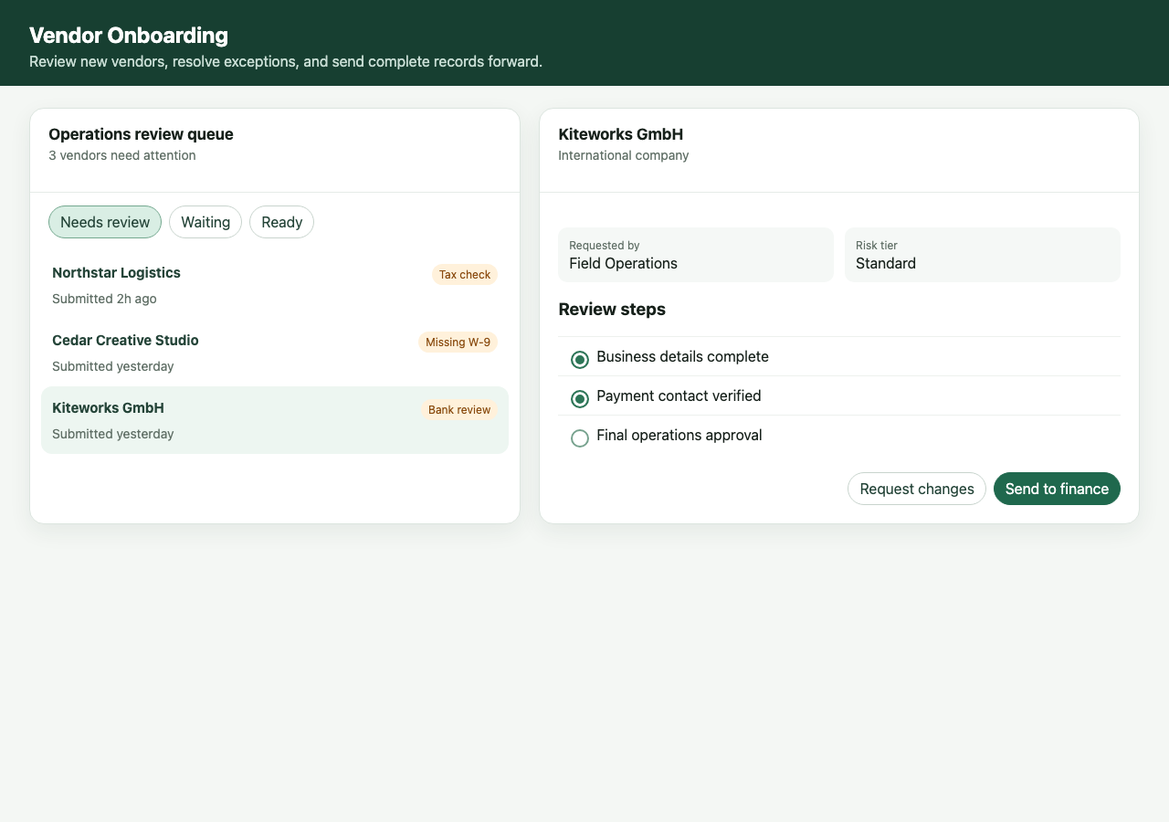
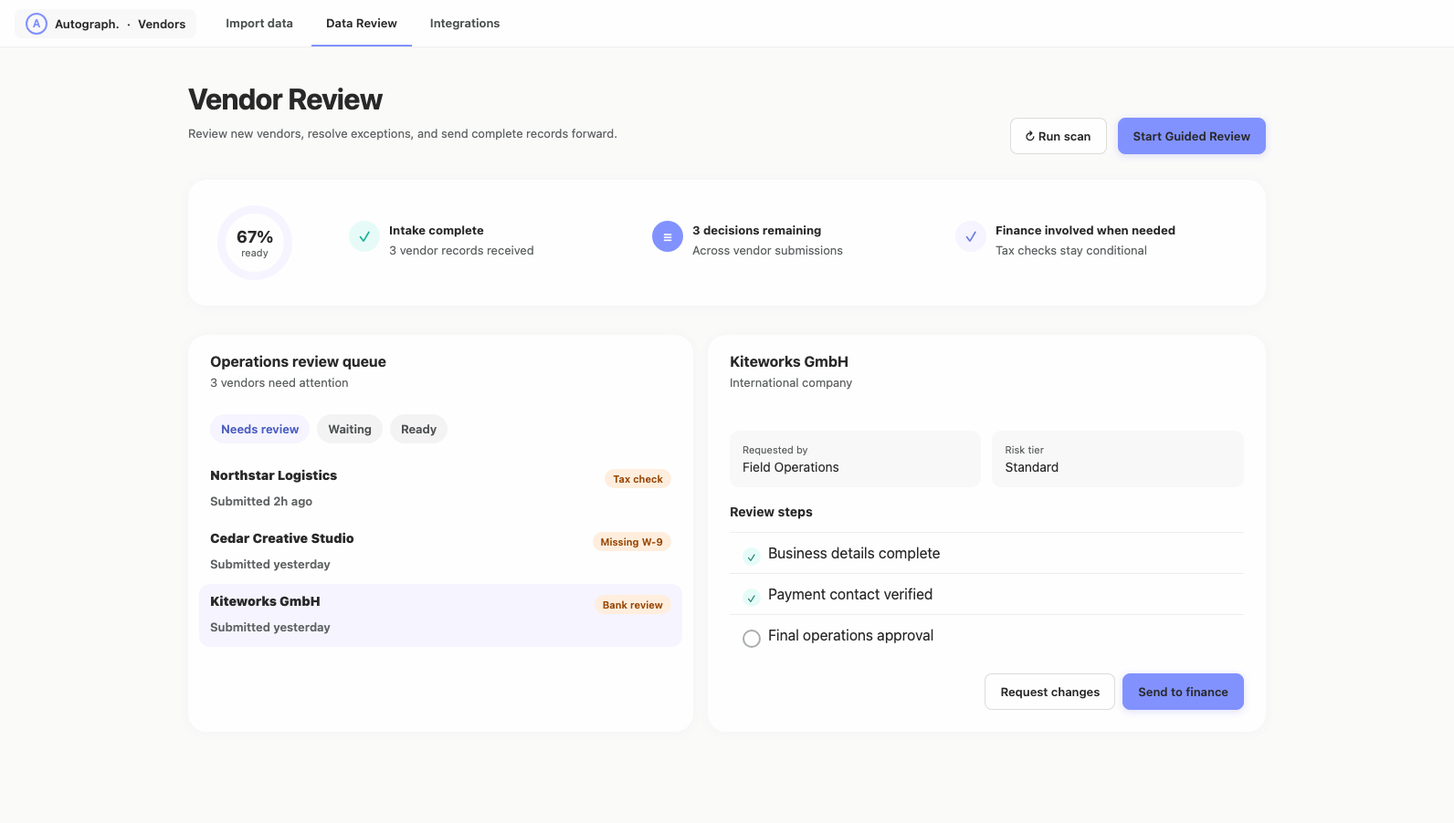
fix: align UI preview evals with Arrusted

diff --git a/lib/sandbox/hosted-managed-seeds.generated.ts b/lib/sandbox/hosted-managed-seeds.generated.ts
@@ -33,7 +33,7 @@ export const HOSTED_MANAGED_SKILL_CONTENTS = [
   {
     path: "design-app/SKILL.md",
     content:
-      "---\nname: design-app\ndescription: Turn a product idea into a rapidly iterated self-contained HTML prototype and a user-approved, build-ready AppSpec for a supported Autograph repository. Use for product discovery, app design, prototyping, or specification when requirements, integrations, or data objects are not yet fully known. Generic app-creation requests belong to $create-app.\n---\n\n# Design App\n\nUse HTML as the discovery surface and a structured AppSpec as the production\nhandoff. Do not require a complete data model before showing the user something\nuseful. Do not let provisional prototype assumptions silently become production\ndecisions.\n\nPrototype files and previews require a discovered builder-owned artifact tool.\nIf it is unavailable, stop after product discovery and report that prototype\ndelivery is not implemented. Never substitute the generic file writer or claim\nthat an HTML artifact was created or shown.\n\n## Communication rule\n\nUse product language in every public message. Never name internal\nspecifications, acceptance mechanics, artifacts, receipts, digests, workspace\nor source machinery, validation gates, protocol operations, or opaque\nvalidator/blocker text. Translate only the visible product meaning or effect.\n\n## Load references\n\nReferences are bundled files, not skills. Never pass a reference path to\n`load_skill`; that tool accepts only the top-level `design-app` name. After this\nskill is loaded, use `read_skill_reference` with the exact pairs below:\n\n- `design-app` and `references/questions.md` before asking discovery questions;\n- `design-app` and `references/app-spec.md` when creating or updating the\n  decision ledger, checking build readiness, or handing off to implementation;\n  and\n- `design-app` and `references/target-repository-routing.md` before grounding\n  the prototype or planning the production app.\n\n## Artifacts\n\nResolve one concise user-facing app name and one lowercase kebab-case app id,\nthen maintain these together under `prototype/<app-id>/`. Preserve explicitly\nsupplied valid values. When either is omitted, infer it from the product brief,\nbriefly tell the user what was inferred, and continue without confirmation.\nDerive an inferred id deterministically from the chosen name by lowercasing it,\nreplacing each run of non-alphanumeric characters with one hyphen, and trimming\nhyphens. The prototype slug and future app id must be identical. Inspect the\nprepared source for a real directory, package, route, or prototype collision;\nask only for a collision, unsupported identifier, or material ambiguity. The\nselected adapter's builder-owned identity operation remains authoritative for\nlater target planning. Never construct or guess a repository script path.\n\n- `index.html` plus additional self-contained HTML pages when interfaces require\n  them;\n- `app-spec.md`, using the contract in `references/app-spec.md`; and\n- `decisions.md`, recording user-stated facts, evidence, assumptions,\n  confirmations, defaults, unresolved questions, and explicit deferrals.\n\nThe HTML is not production code, schema authority, or persisted-data authority.\nThe AppSpec becomes build-ready when stated product decisions and safe revisable\ndefaults satisfy the complete contract; formal recording is internal and silent.\n\n## Phase 0: Minimum HTML gate\n\nRequire only a clear job to be done. Infer the initial interface pattern from\nthe product brief and explicit preferences. When no preference is stated,\nchoose a reasonable, revisable pattern, explain the choice briefly in user\nlanguage, and proceed quickly to HTML. Do not ask the user to choose among a\nqueue, form, dashboard, table, or detail view when the brief supports a good\ndefault. Ask one concise blocking question only when the job itself is missing\nor materially different interface choices would produce meaningfully different\nproducts. Do not block HTML on personas, integrations, data objects, fields,\npermissions, or delivery details; infer plausible provisional choices, label\nthem, and make them easy to revise.\n\n## Phase 1: Focused exploration\n\nResearch enough to make the prototype credible:\n\n1. learn domain terminology, current tools, best practice, and common failures;\n2. identify day-to-day users and consumers of the output;\n3. refine the decisions, cadence, first-use behavior, and failure states inside\n   the stated JTBD;\n4. propose likely data sources and reconciliation issues as assumptions; and\n5. identify concrete proactive and on-demand agent value.\n\nDo not turn this into a mandatory pre-prototype interview. Ask only questions\nthat would materially change the first HTML into a different product. For\nvaluable but nonblocking questions, state the assumption and continue.\n\n## Phase 2: Target-repository grounding\n\nRead only the repository sources routed by\n`references/target-repository-routing.md` from the prepared target workspace.\nInspect current exports, Storybook stories, contracts, tokens, and examples\ninstead of relying on memorized capability lists.\n\nMap provisional needs to the target repository's schema, temporal reads, provenance,\ndraft/review, analytics, agent behavior, integrations, and app-owned workflow.\nClassify material pieces as Config, Extension, Adapter, or Novel. Treat this as\na provisional feasibility assessment; it informs prototype choices but does not\nblock HTML unless the requested interface is impossible to represent honestly.\n\n## Phase 3: Generate the first HTML\n\nGenerate a self-contained, clickable prototype using realistic and internally\nconsistent sample data. Include only the interfaces needed for the JTBD. Make\nnavigation, controls, actions, first-use state, empty/loading/error states, and\nagent behavior visible where relevant.\n\nUse live target-repository design tokens as the source; do not copy a stale literal token\ntable into the skill. The prototype may reproduce token values inside its\nself-contained CSS, but record their repository source in `decisions.md`.\n\nBefore presenting it, verify:\n\n- pages and controls work from `file://`;\n- navigation and active states are correct;\n- sample objects and numbers remain consistent across pages;\n- desktop and narrow layouts remain usable;\n- keyboard controls, labels, focus, contrast, and semantic structure are\n  credible;\n- no lorem ipsum, unexplained placeholders, or fake production integrations\n  appear; and\n- every provisional behavior is labeled in the decision ledger.\n\nRecord the HTML, decision ledger, and exploring AppSpec through the discovered\nsession-scoped artifact tool without requesting approval. This is non-published\nbuilder-owned state and must not write the source or target repository.\n\n## Phase 4: Prototype-led interview loop\n\nShow the prototype early. Ask the user to react in product language: what feels\nwrong, missing, unnecessary, or unlike their work. Revise the HTML first when\nfeedback is experiential.\n\nAfter each meaningful revision:\n\n1. update `decisions.md`;\n2. update the corresponding AppSpec sections;\n3. identify the next highest-value uncertainty;\n4. ask no more than three short questions at once; and\n5. distinguish a blocking build question from a helpful prototype question.\n\nUse the question routes in `references/questions.md`. Prefer questions anchored\nto something visible: “When someone selects this vendor, should they see a\ndetail panel or filter the transactions table?” Avoid asking users to design\nkernel tables, RLS, package boundaries, generated clients, or change envelopes.\n\n## Phase 5: Convert prototype to AppSpec\n\nInfer and confirm the production meaning behind the approved experience:\n\n- integrations, imports, source systems, refresh cadence, and source of truth;\n- data objects, identities, fields, and relationships;\n- routes and interfaces;\n- controls, filters, grouping, as-of dates, comparisons, and actions;\n- reads, writes, draft/review behavior, provenance, and authority;\n- roles, permissions, sensitivity, and tenant expectations;\n- agent responsibilities, tools, limits, and review points;\n- first-use, empty, loading, and failure behavior; and\n- delivery expectation, non-goals, and acceptance walkthrough.\n\nNever infer build readiness from praise of the HTML. Present confirmed\ndecisions, accepted defaults, explicit deferrals, and material product questions\nseparately, without naming internal planning structures.\n\nWhen product decisions and safe revisable defaults are complete, add exactly one\n`## Build handoff` JSON block using the strict shape in\n`references/app-spec.md`. It contains only the non-derivable decisions needed\nby app preparation. Omit it while a materially product-changing choice remains\nunresolved.\n\n## Phase 6: Build-ready gate\n\nValidate the complete AppSpec silently before target mutation. The gate passes\nwithout a formal acceptance prompt when:\n\n- the HTML experience and interface inventory follow stated preferences or\n  clearly labeled safe revisable defaults;\n- every visible value has a confirmed or explicitly provisional production\n  source;\n- integrations and data objects are confirmed or deliberately deferred;\n- every control and action has defined host behavior;\n- temporal, write, review, provenance, permission, and agent boundaries are\n  settled for the first version;\n- blocking `agent_inferred` and `unresolved` items are confirmed, replaced by an\n  accepted default, deferred, or made a non-goal; and\n- the acceptance walkthrough is complete enough to review the plan.\n\nBefore passing the gate, confirm the accountable owner, whether the app owns a\nkernel schema, any exceptional public routes beyond the conventional app-id\nroutes, and provider-neutral integration or hosted-resource capabilities. Then\nset the strict Build handoff status to `build-ready`; do not add provider\nconfiguration or mechanical repository identities to it.\n\nIf validation fails, parse the technical or schema errors, repair missing\nsections and completeness automatically, re-record the artifact, and retry. If\nthe gate still fails, return one plain-language product question only when the\nanswer materially changes the product; otherwise state one actionable product\nlimitation. Never surface AppSpec, receipt, validator, or schema mechanics in\nnormal conversation.\n\n## Phase 7: Production handoff\n\nAfter internal validation, return control to `$create-app` with the app id so\nthe same user task can bind the exact AppSpec bytes and automatically produce\nthe read-only proposal before requesting separate source/topology mutation\napproval. If invoked directly for an app the\nuser intends to build, continue into `$create-app` without asking the user to\nstart another task. Do not create production source or topology in this skill.\n\n## Product-facing conversation\n\nKeep normal updates about the product: the inferred name and id, the chosen UX\npattern, what is visible now, and the next meaningful decision. Suppress routine\ninternal specification and acceptance terms, artifact recording, receipts,\ndigests, workspace/source machinery, validation gates, protocol operations, and\nopaque validator or blocker copy. Reconcile them internally whenever safe.\nTranslate an unavoidable constraint into the smallest product-domain question\nwith a visible tradeoff and recommended default. If no product answer can\nresolve it, explain the unavailable outcome and offer a product-level\nalternative. Phrase every approval in plain language around the concrete\nexternal effect.\n",
+      "---\nname: design-app\ndescription: Turn a product idea into a rapidly iterated, component-backed minimum viable UI for a supported Arrusted repository. Use for product discovery, app design, prototyping, or specification when requirements, integrations, or data objects are not yet fully known. Generic app-creation requests belong to $create-app.\n---\n\n# Design App\n\nUse the prepared Arrusted public component catalog as the discovery surface.\nThe design source is bounded React UI source in the builder-owned overlay;\ncompiled Browser assets are transport, never model-authored HTML. Do not require\na complete data model before showing the user something useful. Do not let\nprovisional UI assumptions silently become production decisions.\n\n## Minimum viable UI gate\n\nPrepare the canonical Arrusted source and inspect its current catalog, tokens,\nproviders, examples, and stories before the first preview. Reuse public\n`@autograph/components`, `@autograph/compositions`, and `@autograph/icons`\nbefore adding a small `src/components/` workflow composition. A local component\nneeds a recorded catalog gap and may compose only public primitives and semantic\ntokens. Never copy private components, define replacement tokens, or introduce\nanother styling system.\n\nThe preview is fixture-backed and in-memory: pages, navigation, filters,\ndialogs, controls, keyboard actions, and visible empty/loading/error states\nwork, but it has no persistence, network, provider, schema, API, server action,\nor backend files. Revise only the disposable overlay and show the UI early.\nDefer backend questions unless the answer changes what the person sees.\n\nStay in UI review after a preview. Praise such as “looks good” prompts an offer\nto finalize functionality but does not authorize it. Only an explicit request\nto finalize functionality accepts the exact revision; then bind production\ndecisions to that revision and begin the existing planning flow. Any later UI\nrevision invalidates acceptance and returns to UI review. Legacy HTML previews\nmay be read, but must be re-rendered through this component path before\nfinalization.\n\nPrototype files and previews require a discovered builder-owned artifact tool.\nIf it is unavailable, stop after product discovery and report that prototype\ndelivery is not implemented. Never substitute the generic file writer or claim\nthat an HTML artifact was created or shown.\n\n## Communication rule\n\nUse product language in every public message. Never name internal\nspecifications, acceptance mechanics, artifacts, receipts, digests, workspace\nor source machinery, validation gates, protocol operations, or opaque\nvalidator/blocker text. Translate only the visible product meaning or effect.\n\n## Load references\n\nReferences are bundled files, not skills. Never pass a reference path to\n`load_skill`; that tool accepts only the top-level `design-app` name. After this\nskill is loaded, use `read_skill_reference` with the exact pairs below:\n\n- `design-app` and `references/questions.md` before asking discovery questions;\n- `design-app` and `references/app-spec.md` when creating or updating the\n  decision ledger, checking build readiness, or handing off to implementation;\n  and\n- `design-app` and `references/target-repository-routing.md` before grounding\n  the prototype or planning the production app.\n\n## Artifacts\n\nResolve one concise user-facing app name and one lowercase kebab-case app id,\nthen maintain these together under `prototype/<app-id>/`. Preserve explicitly\nsupplied valid values. When either is omitted, infer it from the product brief,\nbriefly tell the user what was inferred, and continue without confirmation.\nDerive an inferred id deterministically from the chosen name by lowercasing it,\nreplacing each run of non-alphanumeric characters with one hyphen, and trimming\nhyphens. The prototype slug and future app id must be identical. Inspect the\nprepared source for a real directory, package, route, or prototype collision;\nask only for a collision, unsupported identifier, or material ambiguity. The\nselected adapter's builder-owned identity operation remains authoritative for\nlater target planning. Never construct or guess a repository script path.\n\n- `index.html` plus additional self-contained HTML pages when interfaces require\n  them;\n- `app-spec.md`, using the contract in `references/app-spec.md`; and\n- `decisions.md`, recording user-stated facts, evidence, assumptions,\n  confirmations, defaults, unresolved questions, and explicit deferrals.\n\nThe HTML is not production code, schema authority, or persisted-data authority.\nThe AppSpec becomes build-ready when stated product decisions and safe revisable\ndefaults satisfy the complete contract; formal recording is internal and silent.\n\n## Phase 0: Minimum HTML gate\n\nRequire only a clear job to be done. Infer the initial interface pattern from\nthe product brief and explicit preferences. When no preference is stated,\nchoose a reasonable, revisable pattern, explain the choice briefly in user\nlanguage, and proceed quickly to HTML. Do not ask the user to choose among a\nqueue, form, dashboard, table, or detail view when the brief supports a good\ndefault. Ask one concise blocking question only when the job itself is missing\nor materially different interface choices would produce meaningfully different\nproducts. Do not block HTML on personas, integrations, data objects, fields,\npermissions, or delivery details; infer plausible provisional choices, label\nthem, and make them easy to revise.\n\n## Phase 1: Focused exploration\n\nResearch enough to make the prototype credible:\n\n1. learn domain terminology, current tools, best practice, and common failures;\n2. identify day-to-day users and consumers of the output;\n3. refine the decisions, cadence, first-use behavior, and failure states inside\n   the stated JTBD;\n4. propose likely data sources and reconciliation issues as assumptions; and\n5. identify concrete proactive and on-demand agent value.\n\nDo not turn this into a mandatory pre-prototype interview. Ask only questions\nthat would materially change the first HTML into a different product. For\nvaluable but nonblocking questions, state the assumption and continue.\n\n## Phase 2: Target-repository grounding\n\nRead only the repository sources routed by\n`references/target-repository-routing.md` from the prepared target workspace.\nInspect current exports, Storybook stories, contracts, tokens, and examples\ninstead of relying on memorized capability lists.\n\nMap provisional needs to the target repository's schema, temporal reads, provenance,\ndraft/review, analytics, agent behavior, integrations, and app-owned workflow.\nClassify material pieces as Config, Extension, Adapter, or Novel. Treat this as\na provisional feasibility assessment; it informs prototype choices but does not\nblock HTML unless the requested interface is impossible to represent honestly.\n\n## Phase 3: Generate the first HTML\n\nGenerate a self-contained, clickable prototype using realistic and internally\nconsistent sample data. Include only the interfaces needed for the JTBD. Make\nnavigation, controls, actions, first-use state, empty/loading/error states, and\nagent behavior visible where relevant.\n\nUse live target-repository design tokens as the source; do not copy a stale literal token\ntable into the skill. The prototype may reproduce token values inside its\nself-contained CSS, but record their repository source in `decisions.md`.\n\nBefore presenting it, verify:\n\n- pages and controls work from `file://`;\n- navigation and active states are correct;\n- sample objects and numbers remain consistent across pages;\n- desktop and narrow layouts remain usable;\n- keyboard controls, labels, focus, contrast, and semantic structure are\n  credible;\n- no lorem ipsum, unexplained placeholders, or fake production integrations\n  appear; and\n- every provisional behavior is labeled in the decision ledger.\n\nRecord the HTML, decision ledger, and exploring AppSpec through the discovered\nsession-scoped artifact tool without requesting approval. This is non-published\nbuilder-owned state and must not write the source or target repository.\n\n## Phase 4: Prototype-led interview loop\n\nShow the prototype early. Ask the user to react in product language: what feels\nwrong, missing, unnecessary, or unlike their work. Revise the HTML first when\nfeedback is experiential.\n\nAfter each meaningful revision:\n\n1. update `decisions.md`;\n2. update the corresponding AppSpec sections;\n3. identify the next highest-value uncertainty;\n4. ask no more than three short questions at once; and\n5. distinguish a blocking build question from a helpful prototype question.\n\nUse the question routes in `references/questions.md`. Prefer questions anchored\nto something visible: “When someone selects this vendor, should they see a\ndetail panel or filter the transactions table?” Avoid asking users to design\nkernel tables, RLS, package boundaries, generated clients, or change envelopes.\n\n## Phase 5: Convert prototype to AppSpec\n\nInfer and confirm the production meaning behind the approved experience:\n\n- integrations, imports, source systems, refresh cadence, and source of truth;\n- data objects, identities, fields, and relationships;\n- routes and interfaces;\n- controls, filters, grouping, as-of dates, comparisons, and actions;\n- reads, writes, draft/review behavior, provenance, and authority;\n- roles, permissions, sensitivity, and tenant expectations;\n- agent responsibilities, tools, limits, and review points;\n- first-use, empty, loading, and failure behavior; and\n- delivery expectation, non-goals, and acceptance walkthrough.\n\nNever infer build readiness from praise of the HTML. Present confirmed\ndecisions, accepted defaults, explicit deferrals, and material product questions\nseparately, without naming internal planning structures.\n\nWhen product decisions and safe revisable defaults are complete, add exactly one\n`## Build handoff` JSON block using the strict shape in\n`references/app-spec.md`. It contains only the non-derivable decisions needed\nby app preparation. Omit it while a materially product-changing choice remains\nunresolved.\n\n## Phase 6: Build-ready gate\n\nValidate the complete AppSpec silently before target mutation. The gate passes\nwithout a formal acceptance prompt when:\n\n- the HTML experience and interface inventory follow stated preferences or\n  clearly labeled safe revisable defaults;\n- every visible value has a confirmed or explicitly provisional production\n  source;\n- integrations and data objects are confirmed or deliberately deferred;\n- every control and action has defined host behavior;\n- temporal, write, review, provenance, permission, and agent boundaries are\n  settled for the first version;\n- blocking `agent_inferred` and `unresolved` items are confirmed, replaced by an\n  accepted default, deferred, or made a non-goal; and\n- the acceptance walkthrough is complete enough to review the plan.\n\nBefore passing the gate, confirm the accountable owner, whether the app owns a\nkernel schema, any exceptional public routes beyond the conventional app-id\nroutes, and provider-neutral integration or hosted-resource capabilities. Then\nset the strict Build handoff status to `build-ready`; do not add provider\nconfiguration or mechanical repository identities to it.\n\nIf validation fails, parse the technical or schema errors, repair missing\nsections and completeness automatically, re-record the artifact, and retry. If\nthe gate still fails, return one plain-language product question only when the\nanswer materially changes the product; otherwise state one actionable product\nlimitation. Never surface AppSpec, receipt, validator, or schema mechanics in\nnormal conversation.\n\n## Phase 7: Production handoff\n\nAfter internal validation, return control to `$create-app` with the app id so\nthe same user task can bind the exact AppSpec bytes and automatically produce\nthe read-only proposal before requesting separate source/topology mutation\napproval. If invoked directly for an app the\nuser intends to build, continue into `$create-app` without asking the user to\nstart another task. Do not create production source or topology in this skill.\n\n## Product-facing conversation\n\nKeep normal updates about the product: the inferred name and id, the chosen UX\npattern, what is visible now, and the next meaningful decision. Suppress routine\ninternal specification and acceptance terms, artifact recording, receipts,\ndigests, workspace/source machinery, validation gates, protocol operations, and\nopaque validator or blocker copy. Reconcile them internally whenever safe.\nTranslate an unavoidable constraint into the smallest product-domain question\nwith a visible tradeoff and recommended default. If no product answer can\nresolve it, explain the unavailable outcome and offer a product-level\nalternative. Phrase every approval in plain language around the concrete\nexternal effect.\n",
   },
   {
     path: "plan-app-creation/agents/openai.yaml",

diff --git a/agent/agent.ts b/agent/agent.ts
@@ -10,46 +10,67 @@ export const vendorOnboardingPrototype = `<!doctype html>
 <head>
   <meta charset="utf-8">
   <meta name="viewport" content="width=device-width, initial-scale=1">
-  <title>Vendor Onboarding</title>
+  <title>Vendor Review · Autograph</title>
   <style>
-    :root { color-scheme: light; font-family: Inter, ui-sans-serif, system-ui, sans-serif; color: #17211b; background: #f4f7f4; }
+    :root { color-scheme: light; font-family: Inter, ui-sans-serif, system-ui, sans-serif; color: #292929; background: #fafaf9; }
     * { box-sizing: border-box; }
-    body { margin: 0; }
-    header { padding: 24px 32px 18px; background: #173f31; color: white; }
-    header p { margin: 6px 0 0; color: #c8ddd4; }
-    main { display: grid; grid-template-columns: minmax(320px, 0.9fr) minmax(380px, 1.1fr); gap: 20px; padding: 24px 32px; }
-    section { background: white; border: 1px solid #dce5df; border-radius: 16px; box-shadow: 0 8px 24px #163b2d12; }
-    .section-heading { padding: 18px 20px; border-bottom: 1px solid #e6ece8; }
+    body { margin: 0; background: #fafaf9; }
+    .topnav { min-height: 52px; display: flex; align-items: stretch; gap: 4px; padding: 0 16px; border-bottom: 1px solid rgba(41,41,41,.08); background: #fefefe; }
+    .brand { align-self: center; display: flex; align-items: center; gap: 8px; height: 32px; margin-right: 12px; padding: 0 12px; border-radius: 8px; background: #f8f8f8; font-size: 13px; font-weight: 600; }
+    .mark { width: 24px; height: 24px; display: grid; place-items: center; border: 2px solid #8192ff; border-radius: 50%; color: #8192ff; font-size: 12px; }
+    .tab { border: 0; border-radius: 0; padding: 0 16px; background: transparent; color: #4e5253; box-shadow: none; }
+    .tab[aria-current="page"] { color: #292929; box-shadow: inset 0 -2px #8192ff; }
+    main { width: min(1180px, calc(100% - 40px)); margin: 0 auto; padding: 32px 0 48px; }
+    .page-heading { display: flex; align-items: end; justify-content: space-between; gap: 24px; margin-bottom: 28px; }
+    section { background: #fefefe; border-radius: 20px; box-shadow: 0 1px 12px 1px rgba(68,102,136,.04); }
+    .section-heading { padding: 20px 24px 12px; }
     h1, h2, h3, p { margin-top: 0; }
-    h1 { margin-bottom: 0; font-size: 24px; }
-    h2 { margin-bottom: 4px; font-size: 17px; }
-    .muted { color: #617067; font-size: 14px; }
-    .filters { display: flex; gap: 8px; padding: 14px 20px; }
-    button { border: 1px solid #c8d4cd; border-radius: 999px; background: white; color: #244438; padding: 8px 12px; font: inherit; cursor: pointer; }
-    button[aria-pressed="true"] { background: #d9eee4; border-color: #74a88f; }
+    h1 { margin-bottom: 4px; font-size: 32px; line-height: 48px; letter-spacing: -.02em; }
+    h2 { margin-bottom: 4px; font-size: 16px; }
+    h3 { font-size: 14px; }
+    .muted { color: #5f6263; font-size: 13px; line-height: 20px; }
+    .heading-actions, .actions { display: flex; gap: 12px; }
+    button { min-height: 40px; border: 1px solid rgba(41,41,41,.16); border-radius: 8px; background: #fefefe; color: #292929; padding: 0 16px; font: 600 13px/1 Inter, ui-sans-serif, system-ui, sans-serif; cursor: pointer; }
+    button:hover { background: rgba(41,41,41,.04); }
+    button:focus-visible { outline: 3px solid #f5f4ff; box-shadow: 0 0 0 2px #8192ff; }
+    .primary { border-color: #8192ff; background: #8192ff; color: #292929; box-shadow: 0 2px 8px rgba(99,102,241,.2); }
+    .primary:hover { background: #6b7de2; }
+    .summary { display: grid; grid-template-columns: 120px 1fr 1fr 1fr; align-items: center; gap: 24px; min-height: 138px; padding: 24px 32px; margin-bottom: 32px; }
+    .progress { width: 82px; height: 82px; display: grid; place-content: center; text-align: center; border: 9px solid #f5f4ff; border-radius: 50%; }
+    .progress strong { font-size: 18px; }.progress span { font-size: 11px; color: #5f6263; }
+    .summary-step { position: relative; min-height: 52px; padding-left: 44px; }
+    .summary-step::before { content: "✓"; position: absolute; left: 0; top: 2px; width: 34px; height: 34px; display: grid; place-items: center; border-radius: 50%; background: #f5f4ff; color: #6b7de2; }
+    .summary-step.active::before { content: "≡"; background: #8192ff; color: white; }
+    .summary-step.clear::before { background: #e6fbf7; color: #17b196; }
+    .summary-step strong { display: block; font-size: 13px; margin: 4px 0; }
+    .workspace { display: grid; grid-template-columns: .95fr 1.05fr; gap: 16px; }
+    .filters { display: flex; gap: 8px; padding: 0 24px 16px; }
+    .filters button { min-height: 32px; border: 0; border-radius: 999px; padding: 0 12px; color: #4e5253; background: rgba(41,41,41,.05); }
+    .filters button[aria-pressed="true"] { color: #4d5fc2; background: #f5f4ff; }
     .queue { list-style: none; margin: 0; padding: 0 12px 14px; }
-    .queue button { width: 100%; border: 0; border-radius: 12px; padding: 14px 12px; display: grid; grid-template-columns: 1fr auto; gap: 6px 12px; text-align: left; }
-    .queue button:hover, .queue button[aria-current="true"] { background: #edf6f1; }
-    .queue strong { font-size: 15px; }
-    .status { align-self: center; color: #8a4c10; background: #fff1db; border-radius: 999px; padding: 4px 8px; font-size: 12px; }
-    .detail { padding: 20px; }
+    .queue button { width: 100%; min-height: 68px; border: 0; border-radius: 12px; padding: 12px; display: grid; grid-template-columns: 1fr auto; gap: 4px 12px; text-align: left; }
+    .queue button:hover, .queue button[aria-current="true"] { background: #f5f4ff; }
+    .queue strong { font-size: 14px; }
+    .status { align-self: center; color: #9a4a09; background: #ffeede; border-radius: 999px; padding: 5px 9px; font-size: 11px; }
+    .detail { padding: 0 24px 24px; }
     .facts { display: grid; grid-template-columns: repeat(2, minmax(0, 1fr)); gap: 12px; margin: 18px 0; }
-    .fact { padding: 12px; background: #f5f8f6; border-radius: 10px; }
-    .fact span { display: block; color: #617067; font-size: 12px; margin-bottom: 3px; }
+    .fact { padding: 14px; background: #f8f8f8; border-radius: 10px; font-size: 14px; }
+    .fact span { display: block; color: #5f6263; font-size: 11px; margin-bottom: 4px; }
     .steps { list-style: none; margin: 0; padding: 0; }
-    .steps li { position: relative; padding: 12px 12px 12px 42px; border-top: 1px solid #edf1ee; }
-    .steps li::before { content: ""; position: absolute; left: 14px; top: 15px; width: 16px; height: 16px; border: 2px solid #77a28e; border-radius: 50%; }
-    .steps li.done::before { background: #2d7557; border-color: #2d7557; box-shadow: inset 0 0 0 3px white; }
-    .steps li.conditional { background: #fff9ee; }
+    .steps li { position: relative; padding: 13px 12px 13px 42px; border-top: 1px solid rgba(41,41,41,.08); }
+    .steps li::before { content: ""; position: absolute; left: 14px; top: 16px; width: 16px; height: 16px; border: 2px solid #a9adaf; border-radius: 50%; }
+    .steps li.done::before { content: "✓"; display: grid; place-items: center; background: #e6fbf7; border-color: #e6fbf7; color: #087463; font-size: 11px; }
+    .steps li.conditional { background: #ffeede; border-radius: 8px; }
     .actions { display: flex; justify-content: flex-end; gap: 8px; margin-top: 20px; }
-    .primary { background: #1f684d; border-color: #1f684d; color: white; }
-    @media (max-width: 760px) { main { grid-template-columns: 1fr; padding: 16px; } header { padding: 20px 16px; } .facts { grid-template-columns: 1fr; } }
+    @media (max-width: 760px) { .topnav { overflow-x: auto; padding: 0 8px; }.brand { flex: 0 0 auto; }.tab { flex: 0 0 auto; padding: 0 10px; } main { width: calc(100% - 24px); padding-top: 20px; }.page-heading { align-items: stretch; flex-direction: column; }.heading-actions button { flex: 1; }.summary { grid-template-columns: 1fr; padding: 20px; }.progress { margin: auto; }.workspace { grid-template-columns: 1fr; }.facts { grid-template-columns: 1fr; } }
   </style>
 </head>
 <body>
-  <header><h1>Vendor Onboarding</h1><p>Review new vendors, resolve exceptions, and send complete records forward.</p></header>
+  <nav class="topnav" aria-label="Vendor pages"><div class="brand"><span class="mark">A</span><span>Autograph.</span><span aria-hidden="true">·</span><span>Vendors</span></div><button class="tab">Import data</button><button class="tab" aria-current="page">Data Review</button><button class="tab">Integrations</button></nav>
   <main>
-    <section aria-labelledby="queue-title">
+    <div class="page-heading"><div><h1>Vendor Review</h1><p class="muted">Review new vendors, resolve exceptions, and send complete records forward.</p></div><div class="heading-actions"><button>↻ Run scan</button><button class="primary">Start Guided Review</button></div></div>
+    <section class="summary" aria-label="Review readiness"><div class="progress"><strong>67%</strong><span>ready</span></div><div class="summary-step clear"><strong>Intake complete</strong><span class="muted">3 vendor records received</span></div><div class="summary-step active"><strong>3 decisions remaining</strong><span class="muted">Across vendor submissions</span></div><div class="summary-step"><strong>Finance involved when needed</strong><span class="muted">Tax checks stay conditional</span></div></section>
+    <div class="workspace"><section aria-labelledby="queue-title">
       <div class="section-heading"><h2 id="queue-title">Operations review queue</h2><p class="muted">3 vendors need attention</p></div>
       <div class="filters" aria-label="Queue filters"><button aria-pressed="true">Needs review</button><button aria-pressed="false">Waiting</button><button aria-pressed="false">Ready</button></div>
       <ul class="queue">
@@ -57,8 +78,7 @@ export const vendorOnboardingPrototype = `<!doctype html>
         <li><button data-name="Cedar Creative Studio" data-type="US individual" data-tax="required"><strong>Cedar Creative Studio</strong><span class="status">Missing W-9</span><span class="muted">Submitted yesterday</span></button></li>
         <li><button data-name="Kiteworks GmbH" data-type="International company" data-tax="not-required"><strong>Kiteworks GmbH</strong><span class="status">Bank review</span><span class="muted">Submitted yesterday</span></button></li>
       </ul>
-    </section>
-    <section aria-labelledby="detail-title">
+    </section><section aria-labelledby="detail-title">
       <div class="section-heading"><h2 id="detail-title">Northstar Logistics</h2><p class="muted" id="vendor-type">US corporation</p></div>
       <div class="detail">
         <div class="facts"><div class="fact"><span>Requested by</span>Field Operations</div><div class="fact"><span>Risk tier</span>Standard</div></div>
@@ -66,7 +86,7 @@ export const vendorOnboardingPrototype = `<!doctype html>
         <ol class="steps"><li class="done">Business details complete</li><li class="done">Payment contact verified</li><li class="conditional" id="tax-step"><strong>Finance: verify tax information</strong><br><span class="muted">Required for tax-reportable US vendors</span></li><li>Final operations approval</li></ol>
         <div class="actions"><button>Request changes</button><button class="primary">Send to finance</button></div>
       </div>
-    </section>
+    </section></div>
   </main>
   <script>
     const rows = document.querySelectorAll('.queue button');

diff --git a/lib/agent/component-composition-policy.test.ts b/lib/agent/component-composition-policy.test.ts
@@ -8,9 +8,13 @@ import {
 const manifest = JSON.stringify({
   version: 1,
   kind: "arrusted-component-composition-v1",
-  publicImports: ["@arrusted/ui/review-queue"],
-  tokenEntrypoints: ["@arrusted/design-system/tokens.css"],
-  providers: ["@arrusted/ui/provider"],
+  publicImports: [
+    "@autograph/components",
+    "@autograph/compositions",
+    "@autograph/icons",
+  ],
+  tokenEntrypoints: ["@autograph/design-system/tokens.css"],
+  providers: ["@autograph/components/providers"],
   routeGlue: {
     allowedFiles: ["app/layout.tsx", "app/page.tsx"],
     allowedStyleFiles: [],
@@ -63,7 +67,7 @@ describe("Arrusted component composition policy", () => {
           {
             path: "apps/vendor-onboarding/app/page.tsx",
             content:
-              'import { ReviewQueue } from "@arrusted/ui/review-queue";\nimport "@arrusted/design-system/tokens.css";\nexport default function Page() { return <ReviewQueue />; }\n',
+              'import { KpiCard } from "@autograph/components";\nimport { Check } from "@autograph/icons";\nimport "@autograph/design-system/tokens.css";\nexport default function Page() { return <KpiCard icon={Check} title="Ready" value={3} />; }\n',
           },
         ],
       }),
@@ -74,7 +78,7 @@ describe("Arrusted component composition policy", () => {
     [
       "unapproved import",
       "apps/vendor-onboarding/app/page.tsx",
-      'import { Card } from "@arrusted/ui/card";\nexport default function Page() { return <Card />; }\n',
+      'import { Card } from "@autograph/private";\nexport default function Page() { return <Card />; }\n',
       "unapproved-public-import",
     ],
     [

diff --git a/evals/support/product-quality.test.ts b/evals/support/product-quality.test.ts
@@ -74,7 +74,7 @@ Confirmed.
 }
 \`\`\``;
 
-const completePrototype = `<!doctype html><html lang="en"><head><meta name="viewport" content="width=device-width"></head><body><main><section aria-labelledby="detail-title"><h1 id="detail-title">Northstar Logistics</h1><p>Operations review queue</p><p>Finance: verify tax information</p><div class="queue button"></div><div id="tax-step"></div></section></main><script>document.addEventListener('click', () => {});</script><style>@media (max-width: 700px) { main { display: block; } }</style></body></html>`;
+const completePrototype = `<!doctype html><html lang="en"><head><meta name="viewport" content="width=device-width"></head><body><main><section aria-labelledby="detail-title"><h1 id="detail-title">Northstar Logistics</h1><p>Operations review queue</p><p>Finance: verify tax information</p><div class="queue button"></div><div id="tax-step"></div></section></main><script>document.addEventListener('click', () => {});</script><style>:root { color: #292929; background: #fafaf9; accent-color: #8192ff; --success-reference: #17b196; } @media (max-width: 700px) { main { display: block; } }</style></body></html>`;
 
 describe("product-quality scenarios", () => {
   it("defines the four supported product flows", () => {

diff --git a/lib/repository/target-apply.ts b/lib/repository/target-apply.ts
@@ -685,7 +685,7 @@ export function fixtureApplyCommandExecutor(): ApplyCommandExecutor {
     await sandbox.writeTextFile({
       path: `${relativeRoot}/apps/${appId}/app/page.tsx`,
       content:
-        'import { ReviewQueue } from "@arrusted/ui/review-queue";\nimport "@arrusted/design-system/tokens.css";\n\nexport default function Page() {\n  return <ReviewQueue />;\n}\n',
+        'import { Button, KpiCard, PageHeader } from "@autograph/components";\nimport { Check } from "@autograph/icons";\nimport "@autograph/design-system/tokens.css";\n\nexport default function Page() {\n  return <><PageHeader title="Vendor Review" /><KpiCard icon={Check} title="Ready" value={3} /><Button>Start Guided Review</Button></>;\n}\n',
     });
     await sandbox.writeTextFile({
       path: `${relativeRoot}/microfrontends.json`,

diff --git a/lib/agent/component-composition-policy.ts b/lib/agent/component-composition-policy.ts
@@ -2,7 +2,7 @@ import { createHash } from "node:crypto";
 
 import { z } from "zod";
 
-const identifier = z.string().regex(/^@arrusted\/[A-Za-z0-9_./-]+$/u);
+const identifier = z.string().regex(/^@autograph\/[A-Za-z0-9_./-]+$/u);
 const relativePath = z
   .string()
   .regex(/^[A-Za-z0-9_./-]+(?:\.[A-Za-z0-9_-]+)?$/u)
@@ -223,7 +223,7 @@ export function auditAppliedAppComposition(input: {
       });
 
     for (const specifier of importsFrom(file.content)) {
-      if (specifier.startsWith("@arrusted/") && !allowedImports.has(specifier))
+      if (specifier.startsWith("@autograph/") && !allowedImports.has(specifier))
         violations.push({
           code: "unapproved-public-import",
           path: file.path,

diff --git a/evals/product-quality/product-quality.visual.playwright.ts b/evals/product-quality/product-quality.visual.playwright.ts
@@ -85,7 +85,7 @@ async function loadPrototype(page: Page) {
   });
   expect(accessibility.violations).toEqual([]);
   await expect(
-    page.getByRole("heading", { name: "Vendor Onboarding" }),
+    page.getByRole("heading", { name: "Vendor Review" }),
   ).toBeVisible();
 }
 
@@ -114,7 +114,7 @@ test.describe("recorded Vendor Onboarding prototype", () => {
   test("supports the desktop review flow and reports visual drift", async ({
     page,
   }) => {
-    await page.setViewportSize({ width: 1280, height: 900 });
+    await page.setViewportSize({ width: 1592, height: 902 });
     await loadPrototype(page);
     await page.getByRole("button", { name: "Kiteworks GmbH" }).click();
     await expect(

diff --git a/evals/support/product-quality.ts b/evals/support/product-quality.ts
@@ -183,6 +183,13 @@ export function evaluatePrototypeQuality(input: {
   require(!/lorem ipsum|todo:|placeholder text/iu.test(
     input.html,
   ), "Prototype contains unfinished placeholder content.");
+  for (const color of ["#8192ff", "#292929", "#fafaf9", "#17b196"])
+    require(input.html
+      .toLowerCase()
+      .includes(color), `Prototype omitted Arrusted palette token ${color}.`);
+  require(!/#173f31|#1f684d|#2d7557/iu.test(
+    input.html,
+  ), "Prototype retained the superseded green palette.");
   for (const text of prototype.requiredText)
     require(input.html.includes(text), `Prototype omitted ${text}.`);
   for (const selector of prototype.requiredSelectors) {

diff --git a/evals/support/supported-repository.ts b/evals/support/supported-repository.ts
@@ -37,9 +37,13 @@ export const ARRUSTED_COMPONENT_COMPOSITION_MANIFEST = `${JSON.stringify(
   {
     version: 1,
     kind: "arrusted-component-composition-v1",
-    publicImports: ["@arrusted/ui/review-queue"],
-    tokenEntrypoints: ["@arrusted/design-system/tokens.css"],
-    providers: ["@arrusted/ui/provider"],
+    publicImports: [
+      "@autograph/components",
+      "@autograph/compositions",
+      "@autograph/icons",
+    ],
+    tokenEntrypoints: ["@autograph/design-system/tokens.css"],
+    providers: ["@autograph/components/providers"],
     routeGlue: {
       allowedFiles: ["app/layout.tsx", "app/page.tsx"],
       allowedStyleFiles: [],

diff --git a/design-qa.md b/design-qa.md
@@ -1,5 +1,33 @@
 # Design QA
 
+## Vendor UI-first preview pass — 2026-09-02
+
+- Source: `/Volumes/Home/.TemporaryItems/folders.501/TemporaryItems/NSIRD_screencaptureui_JwKu1F/Screenshot 2026-09-02 at 14.35.57.png`
+- Source dimensions: 1592 x 902 at DPR 1.
+- Implementation: `.artifacts/product-quality/vendor-onboarding/vendor-onboarding-desktop.png`
+- Implementation viewport: 1592 x 902 at DPR 1, after selecting Kiteworks GmbH.
+- Narrow implementation: `.artifacts/product-quality/vendor-onboarding/vendor-onboarding-mobile.png` at 390 x 844.
+- Combined comparison: `.artifacts/design-qa/vendor-source-vs-app-builder.png` (source left, implementation right).
+- Arrusted sources inspected: `packages/design-systems/core/tokens/theme.css`, `apps/vendor/frontend/src/review/ReviewQueueServerPage.tsx`, and `apps/vendor/frontend/src/shell/VendorAppChrome.tsx` in the exact Arrusted checkout used by PR 1267.
+
+### Pass 1
+
+- P1: The previous eval used a dark green page header and bespoke green controls, which did not match the Vendor application or Arrusted tokens.
+- P2: The preview lacked the Vendor shell, page tabs, scan summary, soft dashboard cards, periwinkle actions, lavender selected states, and mint success treatment.
+- P2: The first corrected pass exposed WCAG contrast failures in muted text and primary-button labels.
+
+Fixes applied: replaced the visual fixture with the Vendor shell and dashboard composition, used Arrusted's live canvas, surface, ink, periwinkle, lavender, warning, and success values, retained the requested onboarding queue/detail behavior, and corrected all Axe contrast findings without introducing a replacement palette.
+
+### Pass 2
+
+The side-by-side comparison confirms the same page framing, maximum content width, 52px shell, tab treatment, title hierarchy, right-aligned actions, summary-card proportions, dashboard card radius/shadow, typography density, and Arrusted color relationships. The different card contents are intentional because the evaluated product is the onboarding review workflow rather than the source screen's scan-result workflow.
+
+Playwright verified the queue selection, conditional Finance step, desktop and narrow layouts, semantic landmarks, headings, controls, and Axe accessibility scan. The component-composition gate binds `@autograph/components`, `@autograph/compositions`, `@autograph/icons`, and the Arrusted token entrypoint; private imports and replacement tokens fail the eval.
+
+No actionable P0, P1, or P2 visual differences remain for this product translation.
+
+Final result: passed.
+
 ## Visual truth
 
 - Authenticated builder source: `/Volumes/Home/.TemporaryItems/folders.501/TemporaryItems/NSIRD_screencaptureui_YkrnsV/Screenshot 2026-08-28 at 14.54.33.png`
